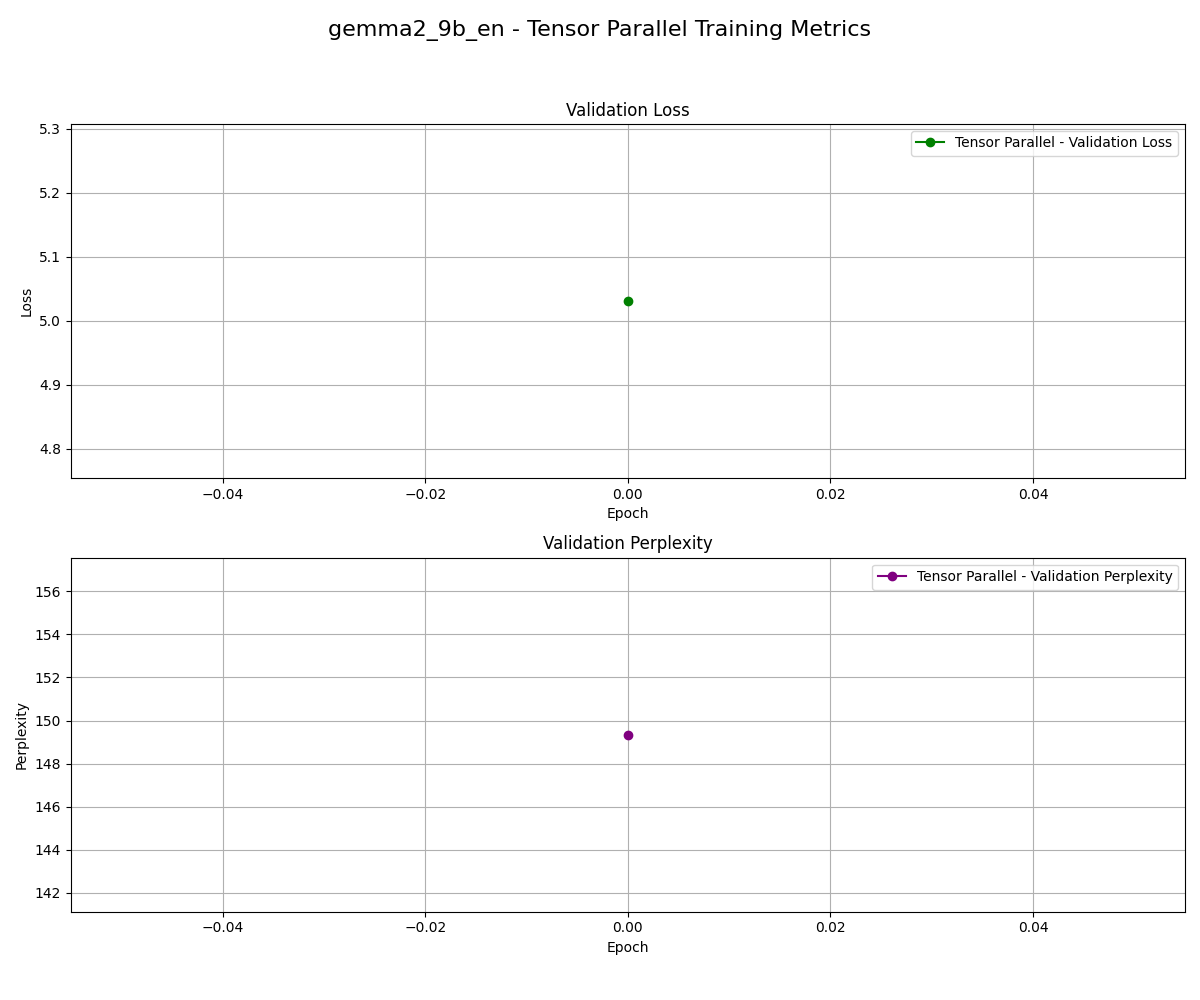
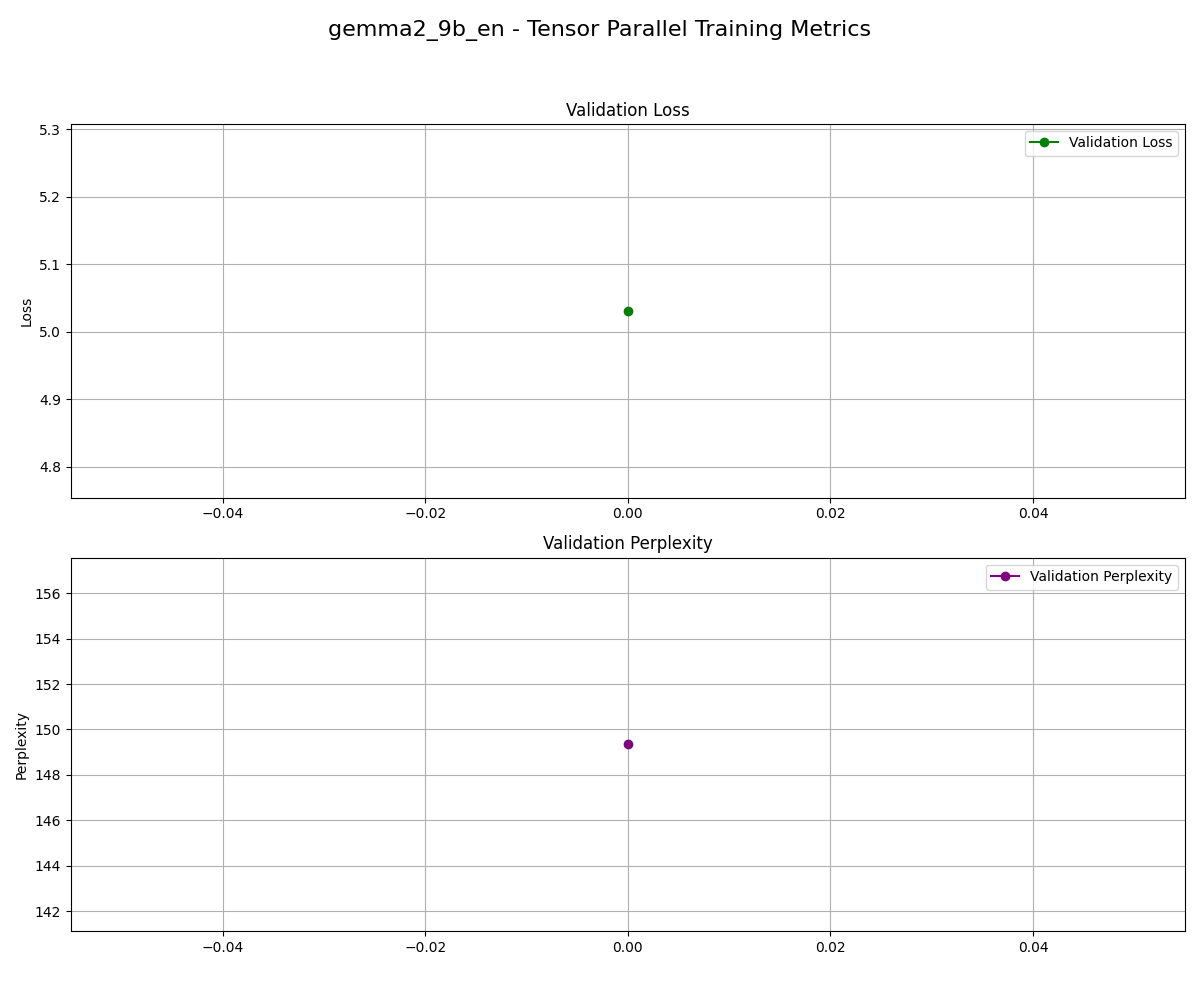
gemini proj cpu works

diff --git a/keras/src/distribution/tensor_parallel/test_models.py b/keras/src/distribution/tensor_parallel/test_models.py
@@ -4,6 +4,11 @@ import sys
 import time
 import gc
 
+# --- OOM FIX 0: JAX Memory Configuration ---
+# Disable eager preallocation to allow Keras to manage memory placement manually
+os.environ["XLA_PYTHON_CLIENT_PREALLOCATE"] = "false"
+os.environ["XLA_PYTHON_CLIENT_ALLOCATOR"] = "platform"
+
 import numpy as np
 
 # --- Project Root Setup ---
@@ -32,52 +37,40 @@ import tensorflow as tf
 import tensorflow_datasets as tfds
 
 import keras
+# [FIX] Import config directly from src to avoid AttributeError
+from keras.src.backend import config as backend_config
+# [FIX] Import list_devices for correct TPU/GPU string IDs
+from keras.src.distribution import list_devices 
 
 # Hide GPUs from TensorFlow so it doesn't hog memory needed for JAX/Keras
 tf.config.set_visible_devices([], "GPU")
 
 # --- OOM FIX 1: Enable Mixed Precision / bfloat16 ---
-# This drastically reduces memory usage on both Host (CPU) and Device (TPU/GPU).
-# bfloat16 is the native format for TPU v5e.
-# FIX: Use set_floatx instead of set_dtype
-keras.config.set_floatx("bfloat16")
+backend_config.set_floatx("bfloat16")
 
 logging.basicConfig(level=logging.INFO, format="%(levelname)s - %(message)s")
 logger = logging.getLogger(__name__)
 
 
-# --- JAX Device Detection ---
+# --- Device Detection ---
 try:
-    devices = jax.devices()
-    logger.info(f"JAX devices found: {[str(d) for d in devices]}")
-    host_devices = [d for d in devices if d.platform == "cpu"]
+    # [FIX] Use Keras list_devices() instead of jax.devices() for compatibility
+    devices = list_devices()
+    logger.info(f"Devices found: {devices}")
     
-    # If we are on a TPU VM, 'devices' will usually be the TPUs.
-    # If on a CPU machine, we use the CPUs.
-    if len(devices) > 1 and devices[0].platform != "cpu":
+    # Filter for accelerators (exclude CPUs if accelerators exist)
+    accel_devices = [d for d in devices if "cpu" not in d.lower()]
+    
+    if accel_devices:
+        TARGET_DEVICES = accel_devices
+    else:
         TARGET_DEVICES = devices
-    else:
-        # Fallback for local testing or CPU simulation
-        TARGET_DEVICES = host_devices
 
-    DEVICES_AVAILABLE = len(TARGET_DEVICES)
-    # Set this to the number of chips you want to shard across (e.g., 4 or 8 for TPU v5e)
-    WORLD_SIZE = 4 
-
-    if DEVICES_AVAILABLE < WORLD_SIZE:
-        logger.warning(
-            f"Requested {WORLD_SIZE} devices, but only {DEVICES_AVAILABLE} available."
-        )
-        TARGET_WORLD_SIZE = DEVICES_AVAILABLE
-        # Adjust target devices to what we actually have
-        TARGET_DEVICES = TARGET_DEVICES[:TARGET_WORLD_SIZE]
-    else:
-        TARGET_DEVICES = TARGET_DEVICES[:WORLD_SIZE]
-        TARGET_WORLD_SIZE = WORLD_SIZE
+    # [FIX] Dynamic world size based on available chips
+    TARGET_WORLD_SIZE = len(TARGET_DEVICES)
         
     logger.info(
-        f"Targeting {TARGET_WORLD_SIZE} devices for parallelism: "
-        f"{[str(d) for d in TARGET_DEVICES]}"
+        f"Targeting {TARGET_WORLD_SIZE} devices for parallelism: {TARGET_DEVICES}"
     )
 
 except Exception as e:
@@ -91,18 +84,15 @@ from keras.src.distribution.tensor_parallel.tensor_parallel_keras import (
 )
 
 # --- Constants ---
-BATCH_SIZE = 1 # Reduce this if you still hit OOM
+BATCH_SIZE = 1  # Increased slightly as LoRA saves memory
 SEQUENCE_LENGTH = 32
-LEARNING_RATE = 1e-4
+LEARNING_RATE = 1e-4 # Adjusted for Adafactor
 EPOCHS = 1
-STEPS_PER_EPOCH = 5
+STEPS_PER_EPOCH = 10
 VALIDATION_STEPS = 5
 
 MODEL_MAPPING = {
-    # "opt_125m_en": keras_hub.models.OPTCausalLM,
-    # Uncomment these to test larger models
-    # "gemma2_2b_en": keras_hub.models.GemmaCausalLM,
-    "gemma_7b_en": keras_hub.models.GemmaCausalLM, 
+    "gemma2_9b_en": keras_hub.models.GemmaCausalLM, 
 }
 
 # ----------------------------------------------------------------------
@@ -119,18 +109,15 @@ def load_shakespeare_dataset(model_preset, model_class):
         example["text"].decode("utf-8") for example in ds.as_numpy_iterator()
     )
 
-    # --- OOM FIX 2: Load Tokenizer Safely ---
-    # We load the tokenizer inside a CPU scope. 
-    # Ideally, we should use the Preprocessor class directly to avoid loading weights,
-    # but using the model class with CPU scope is a safe generic fallback.
     logger.info("Loading tokenizer (on CPU)...")
     with keras.device("cpu"):
-        # We assume the model class has a 'preprocessor' property or we instantiate it
-        # temporarily just to grab the tokenizer. 
-        # Note: This might still load weights into RAM, but 'cpu' ensures they don't hit TPU.
-        temp_model = model_class.from_preset(model_preset)
-        tokenizer = temp_model.preprocessor.tokenizer
-        del temp_model
+        # Use the specific tokenizer class if available to avoid loading model weights
+        try:
+            tokenizer = keras_hub.models.GemmaTokenizer.from_preset(model_preset)
+        except:
+            temp_model = model_class.from_preset(model_preset)
+            tokenizer = temp_model.preprocessor.tokenizer
+            del temp_model
         gc.collect()
 
     token_ids = tokenizer.tokenize(text)
@@ -158,7 +145,6 @@ def load_shakespeare_dataset(model_preset, model_class):
 
 
 def format_for_causal_lm(data):
-    """Formats data for KerasNLP's CausalLM, creating features and labels."""
     features = {
         "token_ids": data[:, :-1],
         "padding_mask": tf.ones_like(data[:, :-1], dtype=tf.bool),
@@ -171,13 +157,15 @@ def get_model_from_preset(preset_name, model_class):
     """Creates a CausalLM model from a KerasNLP preset."""
     logger.info(f"Creating {preset_name} model from KerasNLP preset (on CPU)...")
     
-    # --- OOM FIX 3: Initialize Original Model on CPU ---
-    # This ensures the full 9B/125M parameters are allocated in Host RAM, not HBM.
-    # TensorParallelKeras will then slice these and only move the slices to HBM.
     with keras.device("cpu"):
         model = model_class.from_preset(preset_name, preprocessor=None)
         
-    logger.info(f"Model created with {model.count_params():,} parameters.")
+        # [FIX] Enable LoRA to fit optimizer states in memory
+        if "gemma" in preset_name:
+            logger.info("✨ Enabling LoRA (Rank=4) for memory efficiency...")
+            model.backbone.enable_lora(rank=4)
+        
+    logger.info(f"Model created. Trainable params: {model.count_params():,}")
     return model
 
 
@@ -186,35 +174,28 @@ def get_model_from_preset(preset_name, model_class):
 # ----------------------------------------------------------------------
 
 def plot_training_graphs(tp_history, preset_name):
-    """Plots and saves the loss and perplexity graphs for the TP run."""
     fig, (ax1, ax2) = plt.subplots(2, 1, figsize=(12, 10))
     fig.suptitle(f"{preset_name} - Tensor Parallel Training Metrics", fontsize=16)
 
-    # Plotting Loss
     ax1.plot(
         tp_history.history["val_loss"],
-        label="Tensor Parallel - Validation Loss",
+        label="Validation Loss",
         color="green",
-        linestyle="-",
         marker="o",
     )
     ax1.set_title("Validation Loss")
     ax1.set_ylabel("Loss")
-    ax1.set_xlabel("Epoch")
     ax1.legend()
     ax1.grid(True)
 
-    # Plotting Perplexity
     ax2.plot(
         tp_history.history["val_perplexity"],
-        label="Tensor Parallel - Validation Perplexity",
+        label="Validation Perplexity",
         color="purple",
-        linestyle="-",
         marker="o",
     )
     ax2.set_title("Validation Perplexity")
     ax2.set_ylabel("Perplexity")
-    ax2.set_xlabel("Epoch")
     ax2.legend()
     ax2.grid(True)
 
@@ -230,21 +211,12 @@ def plot_training_graphs(tp_history, preset_name):
 # ----------------------------------------------------------------------
 
 def run_model_verification(preset_name, model_class):
-    """
-    Runs a training execution test for a given model preset using
-    tensor parallelism.
-    """
     if TARGET_WORLD_SIZE < 2:
-        logger.warning(
-            f"SKIPPING {preset_name}: Need at least 2 devices for tensor "
-            f"parallelism, found {TARGET_WORLD_SIZE}"
-        )
+        logger.warning(f"SKIPPING {preset_name}: Need at least 2 devices.")
         return "SKIPPED"
 
     logger.info(f"--- VERIFICATION FOR: {preset_name.upper()} ---")
 
-    # --- Common Setup ---
-    # Pass model_class to helper to safely load tokenizer
     train_ds_raw, val_ds_raw = load_shakespeare_dataset(preset_name, model_class)
 
     train_ds = (
@@ -260,10 +232,8 @@ def run_model_verification(preset_name, model_class):
         .repeat()
     )
 
-    # --- 1. Tensor Parallel Model Training ---
     logger.info("\n--- Training Tensor Parallel (TP) Model ---")
     
-    # Helper now enforces CPU placement
     tp_model_template = get_model_from_preset(preset_name, model_class)
 
     tp_model = TensorParallelKeras(
@@ -272,15 +242,16 @@ def run_model_verification(preset_name, model_class):
         device_ids=TARGET_DEVICES,
     )
 
+    # [FIX] Use Adafactor instead of AdamW to save memory on T4/TPU
     tp_model.compile(
-        optimizer=keras.optimizers.AdamW(learning_rate=LEARNING_RATE),
+        optimizer=keras.optimizers.Adafactor(learning_rate=LEARNING_RATE),
         loss=keras.losses.SparseCategoricalCrossentropy(from_logits=True),
         metrics=[
             keras_hub.metrics.Perplexity(from_logits=True, name="perplexity")
         ],
     )
 
-    tp_history = tp_model.fit(
+    tp_model.fit(
         train_ds,
         validation_data=val_ds,
         epochs=EPOCHS,
@@ -288,22 +259,16 @@ def run_model_verification(preset_name, model_class):
         validation_steps=VALIDATION_STEPS,
         verbose=1,
     )
-    tp_final_val_loss = tp_history.history["val_loss"][-1]
-    logger.info("TP model training completed successfully.")
-
-    # --- 2. Verification ---
-    logger.info("\n--- ⚖ Verification Results ---")
-    logger.info(f"TP Final Validation Loss: {tp_final_val_loss:.6f}")
-
-    plot_training_graphs(tp_history, preset_name)
     
-    # Cleanup to free memory for next model in loop
+    logger.info("TP model training completed successfully.")
+    
+    plot_training_graphs(tp_model.history, preset_name)
+    
     del tp_model
     del tp_model_template
     keras.backend.clear_session()
     gc.collect()
 
-    logger.info("✅ SUCCESS: TP model training finished without errors.")
     return True
 
 
@@ -313,13 +278,13 @@ def run_model_verification(preset_name, model_class):
 
 if __name__ == "__main__":
     if TARGET_WORLD_SIZE == 0:
-        logger.critical("No JAX devices found. Aborting verification suite.")
+        logger.critical("No JAX devices found. Aborting.")
         sys.exit(1)
 
     logger.info("\n" + "=" * 70)
     logger.info("      TENSOR PARALLELISM EXECUTION SUITE")
     logger.info("=" * 70)
-    logger.info(f"Global Dtype: {keras.config.dtype_policy().name}")
+    logger.info(f"Global Dtype: {backend_config.floatx()}")
 
     results = {}
     total_start_time = time.time()
